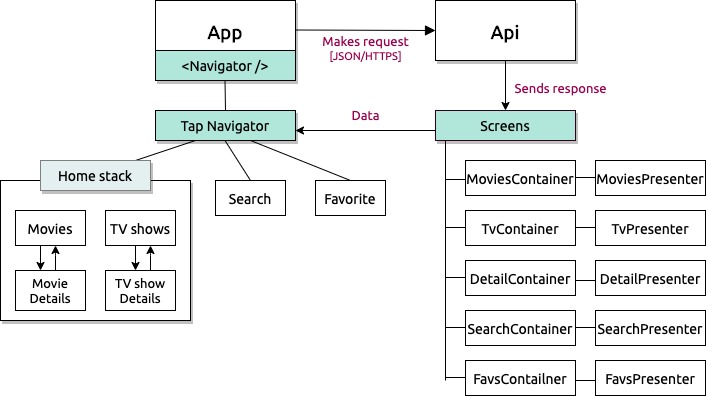
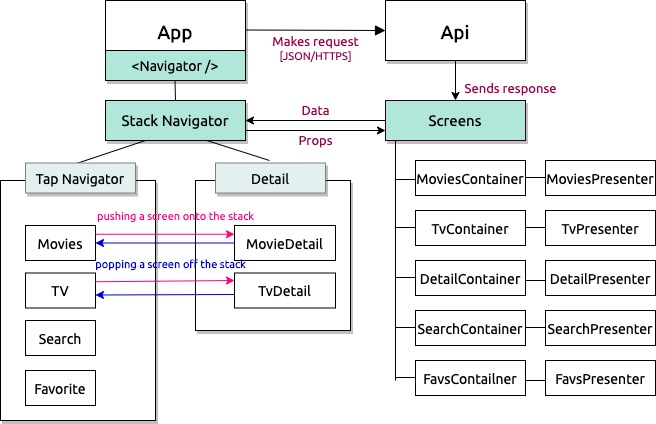
add button for navigating to Detail screen and update component diagram

Changed region(s): [[0.0, 0.0, 1.0, 1.0], [0.5793, 0.0, 0.6402, 0.0303], [0.1524, 0.0, 0.1829, 0.0303]]

diff --git a/screens/Home.js b/screens/Home.js
@@ -1,8 +1,11 @@
 import React from "react";
-import { View, Text } from "react-native";
+import { View, Text, Button } from "react-native";
 
-export default () => (
+export default ( {navigation} ) => (
   <View>
     <Text>Home</Text>
+    <Button 
+      onPress={() => navigation.navigate("Detail")}
+      title="Go to Detail" />
   </View>
 );
